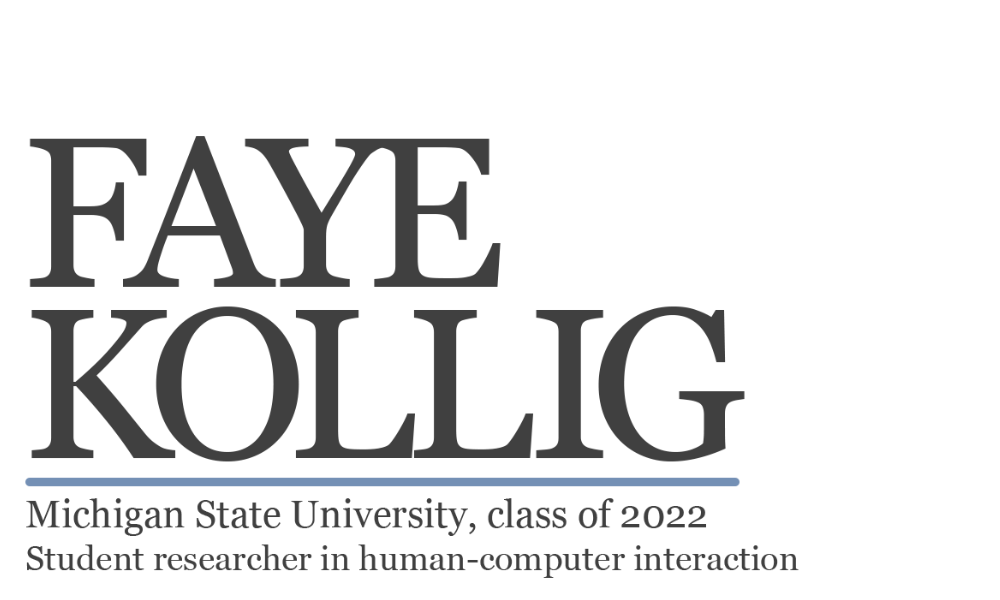
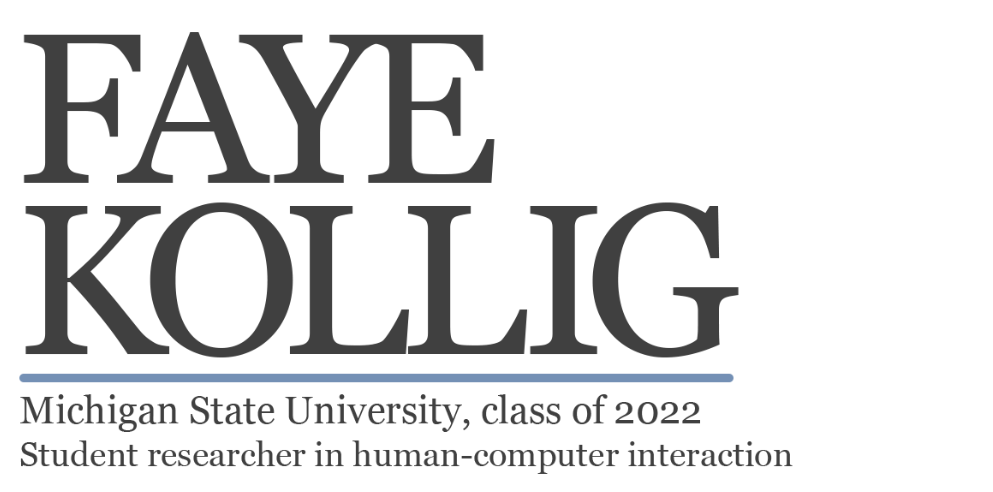
//

Changed region(s): [[0.0, 0.061, 0.8117, 0.9756]]

diff --git a/style.css b/style.css
@@ -323,7 +323,7 @@ h3, .boxHeadline {
 }
 
 #name {
-  width: 40%;
+  width: 50%;
   padding: 0;
   margin: 0 0 10px 0;
 }
